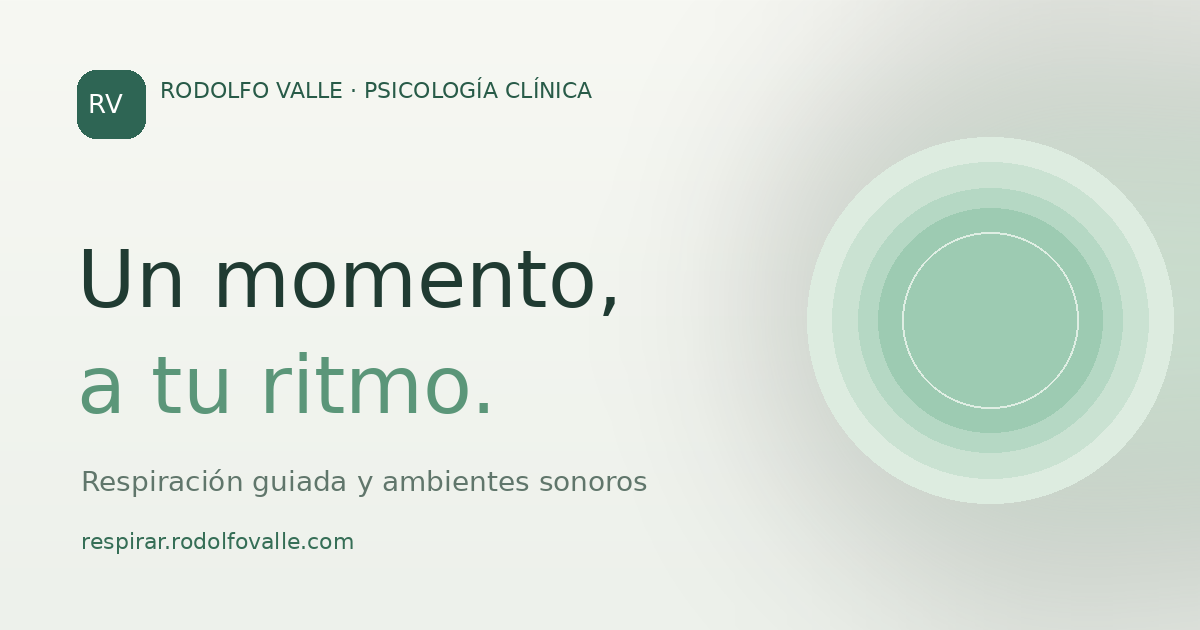
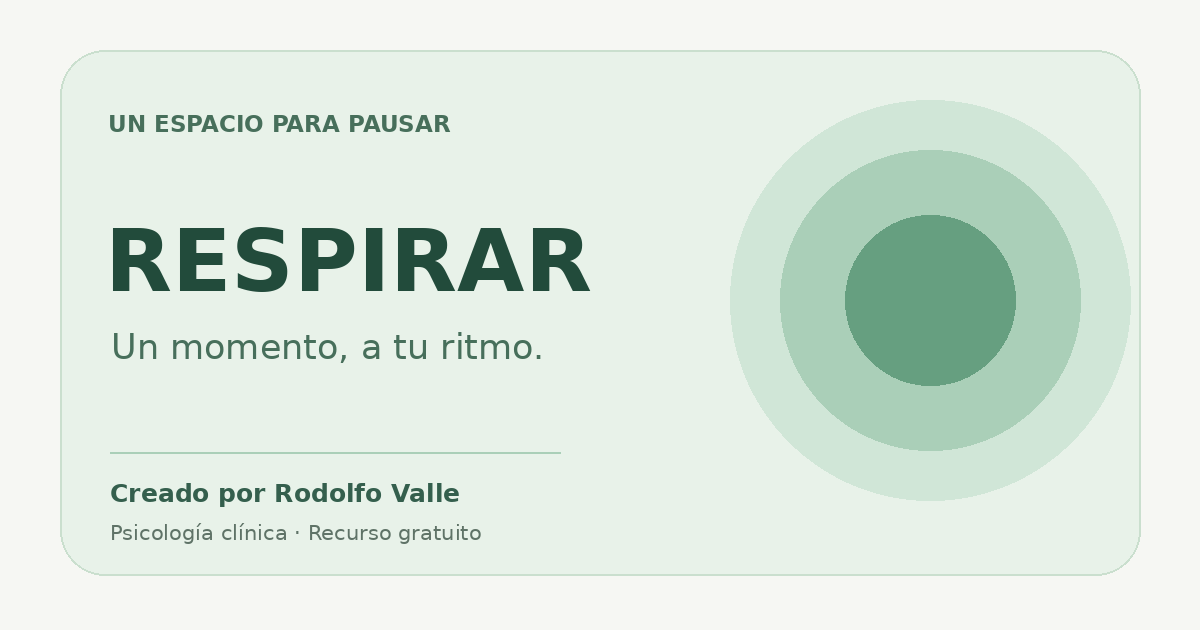
Release Respirar v3.2: branded experience, accessible controls, privacy, installable offline PWA

diff --git a/index.html b/index.html
@@ -4,6 +4,9 @@
   <meta charset="utf-8">
   <meta name="viewport" content="width=device-width, initial-scale=1, viewport-fit=cover">
   <meta name="theme-color" content="#f6f7f3">
+  <meta name="apple-mobile-web-app-capable" content="yes">
+  <meta name="apple-mobile-web-app-status-bar-style" content="default">
+  <meta name="apple-mobile-web-app-title" content="Respirar">
   <meta name="description" content="Respiración guiada y ambientes sonoros para una pausa a tu ritmo. Mar, brisa, lluvia, bosque y cafetería. Gratis, sin registro y sin enviar tus respuestas. Un recurso de Rodolfo Valle.">
   <meta name="author" content="Rodolfo Valle">
   <meta name="robots" content="index,follow,max-image-preview:large">
@@ -13,12 +16,17 @@
   <meta property="og:title" content="Respirar · Una pausa a tu ritmo">
   <meta property="og:description" content="Respiración guiada o solo ambientes relajantes. Sin cuentas, sin anuncios y sin registro de respuestas.">
   <meta property="og:image" content="https://respirar.rodolfovalle.com/assets/social-card.png">
+  <meta property="og:image:width" content="1200">
+  <meta property="og:image:height" content="630">
+  <meta property="og:image:alt" content="Respirar · Un momento, a tu ritmo · Creado por Rodolfo Valle">
   <link rel="canonical" href="https://respirar.rodolfovalle.com/">
   <link rel="icon" href="assets/favicon.svg" type="image/svg+xml">
+  <link rel="apple-touch-icon" href="assets/icon-192.png">
+  <link rel="manifest" href="manifest.webmanifest">
   <link rel="stylesheet" href="styles.css">
   <title>Respirar · Una pausa a tu ritmo | Rodolfo Valle</title>
   <script type="application/ld+json">
-  {"@context":"https://schema.org","@type":"WebApplication","name":"Respirar","description":"Recurso psicoeducativo de respiración guiada y ambientes sonoros, sin cuentas ni registro de respuestas.","url":"https://respirar.rodolfovalle.com/","inLanguage":"es-CL","applicationCategory":"HealthApplication","operatingSystem":"Web","isAccessibleForFree":true,"author":{"@type":"Person","name":"Rodolfo Valle","url":"https://rodolfovalle.com/"}}
+  {"@context":"https://schema.org","@type":"WebApplication","@id":"https://respirar.rodolfovalle.com/#app","name":"Respirar","description":"Recurso psicoeducativo de respiración guiada y ambientes sonoros, sin cuentas ni registro de respuestas.","url":"https://respirar.rodolfovalle.com/","inLanguage":"es-CL","applicationCategory":"HealthApplication","operatingSystem":"Web","isAccessibleForFree":true,"author":{"@type":"Person","@id":"https://rodolfovalle.com/#sobre-mi","name":"Rodolfo Valle","url":"https://rodolfovalle.com/"},"publisher":{"@type":"Person","name":"Rodolfo Valle","url":"https://rodolfovalle.com/"}}
   </script>
   <script src="app.js" defer></script>
 </head>
@@ -35,8 +43,10 @@
     <main>
       <div class="intro" id="intro">
         <div class="overline">UN ESPACIO PARA PAUSAR</div>
-        <h1>Un momento, <em>a tu ritmo.</em></h1>
-        <p>Respira de manera cómoda o simplemente escucha un ambiente. No hay objetivos que cumplir ni resultados que registrar.</p>
+        <div class="product-wordmark"><span class="product-mark" aria-hidden="true"><span></span></span><h1>RESPIRAR</h1></div>
+        <p class="product-motto">Un momento, <em>a tu ritmo.</em></p>
+        <p class="product-description">Respira de manera cómoda o simplemente escucha un ambiente. No hay objetivos que cumplir ni resultados que registrar.</p>
+        <p class="product-credit">Creado por <a href="https://rodolfovalle.com/#sobre-mi" rel="author">Rodolfo Valle</a> · Psicología clínica</p>
       </div>
 
       <div class="experience" id="experience">
@@ -68,7 +78,7 @@
           </div>
 
           <div class="stage-info">
-            <p class="guidance" id="guidance">Busca una posición cómoda. Puedes mantener los ojos abiertos y respirar normalmente.</p>
+            <p class="guidance" id="guidance">Puedes seguir el ritmo o respirar naturalmente. No necesitas hacerlo perfecto.</p>
             <div class="time" id="time" aria-label="Tiempo restante">05:00</div>
             <div class="time-caption" id="timeCaption">TIEMPO RESTANTE</div>
             <div class="action-row">
@@ -123,21 +133,28 @@
               <button class="sound-option" type="button" data-sound="cafeteria" aria-pressed="false"><span class="sound-emoji" aria-hidden="true">☕</span><span>Cafetería</span></button>
             </div>
             <div class="volume-line"><label for="volume">Volumen</label><input type="range" id="volume" min="0" max="100" step="5" value="30" disabled><output for="volume" id="volumeValue">30%</output></div>
-            <p class="helper audio-hint" id="audioHint" role="status" aria-live="polite">El sonido se reproduce solo cuando comienza la sesión.</p>
+            <p class="helper audio-hint" id="audioHint">El sonido se reproduce solo cuando comienza la sesión.</p>
+            <p class="helper sound-provenance">Ambientes sintetizados para este recurso; no son grabaciones de lugares reales.</p>
           </fieldset>
+          <details class="advanced-options"><summary>Más ajustes <span aria-hidden="true">⌄</span></summary>
           <div class="setting-block small-controls">
             <div class="switch-line" id="metronomeLine"><span>Metrónomo suave <small class="switch-help">1 pulso por segundo de inhalación o exhalación</small></span><button type="button" class="switch" id="metronomeToggle" aria-pressed="true" aria-label="Activar o desactivar metrónomo de un pulso por segundo">Sí</button></div>
-            <div class="switch-line"><span>Señales de cambio de fase</span><button type="button" class="switch" id="bellToggle" aria-pressed="false">No</button></div>
-            <div class="switch-line"><span>Animación de la esfera</span><button type="button" class="switch" id="motionToggle" aria-pressed="true">Sí</button></div>
+            <div class="switch-line"><span>Señales de cambio de fase</span><button type="button" class="switch" id="bellToggle" aria-label="Señales de cambio de fase" aria-pressed="false">No</button></div>
+            <div class="switch-line"><span>Animación de la esfera</span><button type="button" class="switch" id="motionToggle" aria-label="Animación de la esfera" aria-pressed="true">Sí</button></div>
           </div>
-          <div class="privacy-note"><svg viewBox="0 0 24 24" width="18" height="18" aria-hidden="true" fill="none" stroke="currentColor" stroke-width="1.6"><rect x="5" y="10" width="14" height="11" rx="2"/><path d="M8 10V7a4 4 0 0 1 8 0v3"/></svg><p>Sin cuentas, anuncios ni registro de datos de uso. Los sonidos se cargan desde este mismo sitio.</p></div>
+          </details>
+          <div class="privacy-note"><svg viewBox="0 0 24 24" width="18" height="18" aria-hidden="true" fill="none" stroke="currentColor" stroke-width="1.6"><rect x="5" y="10" width="14" height="11" rx="2"/><path d="M8 10V7a4 4 0 0 1 8 0v3"/></svg><p>Sin cuentas, anuncios ni registro de sesiones. Tu navegador guarda únicamente recursos técnicos para el uso sin conexión. <a href="privacidad.html">Privacidad de Respirar</a>.</p></div>
         </aside>
       </div>
       <div class="below">
         <p><strong>Una indicación importante.</strong> Respira sin esfuerzo y a tu ritmo; detén el ejercicio si aparece mareo, malestar o aumenta la angustia. Puedes elegir «Solo escuchar» sin instrucciones respiratorias. Este recurso psicoeducativo no sustituye la atención profesional ni la asistencia urgente.</p>
       </div>
     </main>
-    <footer class="footer"><span>© 2026 Rodolfo Valle · Respirar v3.1</span><span>Diseñado para acompañar, no para evaluar.</span><a href="https://rodolfovalle.com/" rel="noopener noreferrer">rodolfovalle.com ↗</a></footer>
+    <footer class="footer">
+      <div class="footer-brand"><strong>RESPIRAR</strong><span>Un recurso creado por <a href="https://rodolfovalle.com/#sobre-mi" rel="author">Rodolfo Valle</a> · © 2026 · v3.2</span></div>
+      <nav class="footer-links" aria-label="Enlaces del recurso"><a href="https://rodolfovalle.com/#atlas">Atlas de emociones</a><a href="https://rodolfovalle.com/">Rodolfo Valle</a><a href="privacidad.html">Privacidad</a></nav>
+      <details class="install-help"><summary>Instalar y usar sin conexión</summary><p>En iPhone: abre esta página en Safari, toca Compartir y selecciona «Añadir a pantalla de inicio». En Android o computador: utiliza «Instalar aplicación» o «Añadir a pantalla de inicio» desde el menú del navegador. Después de cargar todos los recursos por primera vez, podrás utilizar Respirar sin conexión. Si borras los datos del sitio, deberás volver a cargarlo.</p></details>
+    </footer>
   </div>
 </body>
 </html>

diff --git a/app.js b/app.js
@@ -1,4 +1,4 @@
-/* Respirar v3.1 — Rodolfo Valle — no trackers, no accounts, no external libraries. */
+/* Respirar v3.2 — Rodolfo Valle — no trackers, no accounts, no external libraries. */
 (() => {
   'use strict';
   const root = document.getElementById('app');
@@ -34,6 +34,13 @@
   let ctx=null,active=null,audioToken=0,nextTick=0;
   const tickVoices=new Set();
   const loaded=new Map();
+  let audioRest=0;
+  function suspendAudio(){
+    if(!ctx||ctx.state!=='running')return;
+    // Suspend only after the audio nodes have stopped; resume is always user-initiated.
+    if(audioRest)clearTimeout(audioRest);
+    audioRest=setTimeout(()=>{audioRest=0;if(state!=='running'&&ctx&&ctx.state==='running')ctx.suspend().catch(()=>{});},620);
+  }
   ui.progress.style.strokeDasharray=String(circumference);
   ui.progress.style.strokeDashoffset=String(circumference);
   const activeSession=()=>state==='running'||state==='paused';
@@ -111,6 +118,7 @@
     }
   }
   function initContext(){
+    if(audioRest){clearTimeout(audioRest);audioRest=0;}
     try{
       if(!ctx){const Ctx=window.AudioContext||window.webkitAudioContext;if(!Ctx)throw new Error('Sin Web Audio');ctx=new Ctx();}
       if(ctx.state==='suspended')ctx.resume().catch(()=>setHint('El navegador bloqueó el sonido. Puedes continuar sin audio.'));
@@ -244,7 +252,7 @@
       ui.guidance.textContent=state==='completed'
         ?'Vuelve cuando quieras. No hay nada que evaluar.'
         :mode==='guided'
-        ?'Busca una posición cómoda. Puedes mantener los ojos abiertos y respirar normalmente.'
+        ?'Puedes seguir el ritmo o respirar naturalmente. No necesitas hacerlo perfecto.'
         :'Elige un ambiente y escucha sin tener que seguir instrucciones.';
       ui.orb.style.setProperty('--orb-scale','.82');return;
     }
@@ -274,7 +282,7 @@
     if(state!=='running')return;
     accumulatedMs=elapsed();state='paused';stopClock();stopAudio(true);stopMetronome();lastPhase='';
     setHint(auto?'La pestaña quedó oculta: el sonido y la sesión se pausaron.':'Sonido pausado.');
-    syncButtons();render();announce(auto?'Sesión pausada al cambiar de pestaña.':'Sesión en pausa.');
+    syncButtons();render();suspendAudio();announce(auto?'Sesión pausada al cambiar de pestaña.':'Sesión en pausa.');
   }
   function finish(natural=false){
     if(state!=='running'&&state!=='paused')return;
@@ -282,7 +290,7 @@
     if(natural&&hasDeadline())accumulatedMs=durationMs();
     state='completed';stopClock();stopAudio(!natural);stopMetronome();lastPhase='';
     setImmersive(false);setHint('Sesión finalizada.');
-    syncButtons();render();announce('Sesión finalizada. Puedes volver a tu respiración habitual.');
+    syncButtons();render();suspendAudio();announce('Sesión finalizada. Puedes volver a tu respiración habitual.');
   }
   function start(){
     if(state==='paused'){state='running';startedAt=performance.now();lastPhase='';initContext();resetMetronome();startAmbience();syncButtons();stopClock();loop();announce('Sesión reanudada.');return;}
@@ -328,6 +336,10 @@
   if(media.addEventListener)media.addEventListener('change',handleReduce);
   else if(media.addListener)media.addListener(handleReduce);
   document.addEventListener('visibilitychange',()=>{if(document.hidden&&state==='running')pause(true);});
-  window.addEventListener('pagehide',()=>{if(state==='running')pause(true);else{stopAudio(true);stopClock();stopMetronome();}});
+  window.addEventListener('pagehide',()=>{if(state==='running')pause(true);else{stopAudio(true);stopClock();stopMetronome();suspendAudio();}});
+  // Instalable y offline: el trabajador de servicio nunca almacena respuestas ni sesiones.
+  if('serviceWorker' in navigator && (location.protocol==='https:' || location.hostname==='localhost' || location.hostname==='127.0.0.1')){
+    window.addEventListener('load',()=>navigator.serviceWorker.register('./sw.js').catch(()=>{}));
+  }
   syncButtons();render();
 })();

diff --git a/styles.css b/styles.css
@@ -51,3 +51,48 @@ html{min-width:320px;scroll-behavior:smooth}body{margin:0;background:var(--bg);c
   .stage{height:185px}
   .session{padding:11px 12px 13px}
 }
+
+/* Respirar v3.2: firma de producto y navegación complementaria */
+.product-wordmark{display:flex;justify-content:center;align-items:center;gap:13px}
+.product-wordmark h1{margin:0;font-size:clamp(2.4rem,6vw,4.4rem);line-height:1.06;letter-spacing:.055em;font-weight:800;color:var(--ink)}
+.product-mark{display:grid;place-items:center;width:55px;height:55px;flex-shrink:0;border-radius:50%;border:3px solid #739F88;background:#DAEDDE;box-shadow:inset 0 0 0 7px #EFF7EF,inset 0 0 0 13px #B0D1BD}
+.product-mark span{width:16px;height:16px;border-radius:50%;background:#6B9F83}
+.intro .product-motto{font-size:clamp(1.12rem,2.35vw,1.63rem);font-weight:650;letter-spacing:-.025em;color:#476C5A;margin:7px auto 9px}
+.product-motto em{font-style:normal;color:#5C9277}
+.intro .product-description{max-width:550px;margin:0 auto;font-size:.96rem}
+.intro .product-credit{margin:9px auto 0;font-size:.75rem;color:#51695D}
+.product-credit a{font-weight:750;color:#285747;text-underline-offset:3px}
+.sound-provenance{font-size:.72rem;margin-top:4px}
+.advanced-options{border-top:1px solid #E6ECE4;padding-top:14px}
+.advanced-options summary{cursor:pointer;list-style:none;padding:8px 2px;color:#345E4C;font-size:.82rem;font-weight:750}
+.advanced-options summary::-webkit-details-marker{display:none}
+.advanced-options summary span{display:inline-block;margin-left:4px;transition:transform .2s}
+.advanced-options[open] summary span{transform:rotate(180deg)}
+.advanced-options .small-controls{border:0;padding:11px 0 0}
+.privacy-note a{color:#245E4A;font-weight:700;text-underline-offset:2px}
+.footer{align-items:flex-start;gap:14px 20px}
+.footer-brand{display:flex;flex-direction:column;gap:4px}
+.footer-brand strong{font-size:.85rem;letter-spacing:.13em;color:#2C5946}
+.footer-brand span{font-size:.73rem}
+.footer-links{display:flex;flex-wrap:wrap;gap:10px 16px}
+.footer-links a,.footer-brand a{color:#2D604C}
+.install-help{flex-basis:100%;font-size:.74rem;color:#526B5C}
+.install-help summary{cursor:pointer;width:max-content;max-width:100%;font-weight:700;text-decoration:underline;text-underline-offset:3px}
+.install-help p{max-width:680px;line-height:1.6;margin:10px 0 0}
+.privacy-page{width:min(740px,calc(100% - 36px));margin:55px auto 70px;color:#213B33;line-height:1.7}
+.privacy-page h1{font-size:clamp(2rem,5vw,3.3rem);line-height:1.12;margin:14px 0}
+.privacy-page h2{font-size:1.12rem;margin:25px 0 7px}
+.privacy-page p{font-size:.98rem;color:#405E50}
+.privacy-back,.privacy-page a{color:#285747;text-underline-offset:3px}
+.privacy-page footer{margin-top:34px;border-top:1px solid #DEE7DD;padding-top:15px;font-size:.81rem}
+@media(max-width:500px){
+  .product-wordmark{gap:9px}
+  .product-wordmark h1{font-size:clamp(1.88rem,9vw,2.5rem);letter-spacing:.045em}
+  .product-mark{width:35px;height:35px;border-width:2px;box-shadow:inset 0 0 0 4px #EFF7EF,inset 0 0 0 9px #B0D1BD}
+  .product-mark span{width:10px;height:10px}
+  .intro .product-motto{font-size:1.03rem;margin:2px auto 4px}
+  .intro .product-description{font-size:.77rem;line-height:1.4}
+  .intro .product-credit{font-size:.69rem;margin:4px auto 0}
+  .footer{flex-direction:column}
+}
+@media(prefers-reduced-motion:reduce){.advanced-options summary span{transition:none}}

diff --git a/privacidad.html b/privacidad.html
@@ -1,0 +1,1 @@
+<!doctype html><html lang="es-CL"><head><meta charset="utf-8"><meta name="viewport" content="width=device-width,initial-scale=1"><meta name="theme-color" content="#f6f7f3"><meta name="description" content="Privacidad del recurso Respirar creado por Rodolfo Valle."><link rel="icon" href="assets/favicon.svg" type="image/svg+xml"><link rel="stylesheet" href="styles.css"><link rel="manifest" href="manifest.webmanifest"><title>Privacidad · Respirar | Rodolfo Valle</title></head><body><main class="privacy-page"><a class="privacy-back" href="./">← Volver a Respirar</a><div class="overline">RODOLFO VALLE · RECURSO GRATUITO</div><h1>Privacidad de Respirar</h1><p>Respirar es una herramienta psicoeducativa de respiración guiada y ambientes sonoros. No ofrece un servicio de diagnóstico, seguimiento o psicoterapia a través de la aplicación.</p><h2>Información que no solicitamos</h2><p>La aplicación no solicita nombres, correos, cuentas, datos de salud ni respuestas personales. No incorpora formularios, publicidad, analíticas ni píxeles de seguimiento. No registra tus sesiones ni almacena tus selecciones.</p><h2>Recursos locales y funcionamiento sin conexión</h2><p>Tras la primera carga, el navegador puede conservar en su caché los archivos del programa, incluidos sonidos e imágenes, para permitir su uso sin internet. Esta caché contiene recursos estáticos, no historias clínicas ni datos de uso. Puedes eliminarla mediante la configuración de datos del sitio de tu navegador.</p><h2>Solicitudes de alojamiento</h2><p>Al abrir el sitio, GitHub Pages, como proveedor de alojamiento, procesa las solicitudes técnicas necesarias para entregar sus archivos (que pueden incluir dirección IP e información del navegador). Estas solicitudes y sus posibles registros se rigen también por las políticas del proveedor. Respirar no envía respuestas personales a Rodolfo Valle.</p><p>Si sales mediante un enlace a rodolfovalle.com, ese sitio dispone de sus propias tecnologías y condiciones de privacidad. Los enlaces externos no se cargan dentro de Respirar.</p><h2>Uso responsable</h2><p>Si aparecen mareos, malestar o aumenta la angustia, detén el ejercicio. Respirar no sustituye atención profesional ni servicios de urgencia.</p><footer><a href="./">Regresar a Respirar</a> · <a href="https://rodolfovalle.com/#sobre-mi">Creado por Rodolfo Valle</a> · © 2026</footer></main></body></html>

diff --git a/sw.js b/sw.js
@@ -1,0 +1,24 @@
+/* Respirar v3.2 — recursos públicos locales; no guarda sesiones ni datos clínicos */
+const CACHE='respirar-static-v3.2.0';
+const BASE=new URL('./',self.registration.scope);
+const LOCAL=['./','./index.html','./privacidad.html','./styles.css','./app.js','./manifest.webmanifest','./assets/favicon.svg','./assets/icon-192.png','./assets/icon-512.png','./assets/social-card.png','./assets/audio/mar.mp3','./assets/audio/brisa.mp3','./assets/audio/lluvia.mp3','./assets/audio/bosque.mp3','./assets/audio/cafeteria.mp3'];
+self.addEventListener('install',event=>{
+ event.waitUntil(caches.open(CACHE).then(cache=>cache.addAll(LOCAL.map(u=>new URL(u,BASE).href))).then(()=>self.skipWaiting()));
+});
+self.addEventListener('activate',event=>{
+ event.waitUntil(caches.keys().then(keys=>Promise.all(keys.filter(k=>k.startsWith('respirar-static-')&&k!==CACHE).map(k=>caches.delete(k)))).then(()=>self.clients.claim()));
+});
+self.addEventListener('fetch',event=>{
+ if(event.request.method!=='GET')return;
+ const url=new URL(event.request.url);
+ if(url.origin!==self.location.origin || !url.pathname.startsWith(BASE.pathname))return;
+ event.respondWith((async()=>{
+   const cache=await caches.open(CACHE);
+   const cached=await cache.match(event.request,{ignoreSearch:true});
+   if(cached)return cached;
+   try{return await fetch(event.request);}catch(error){
+     if(event.request.mode==='navigate')return await cache.match(new URL('./index.html',BASE).href) || Response.error();
+     return Response.error();
+   }
+ })());
+});

diff --git a/README.md b/README.md
@@ -1,42 +1,48 @@
-# RESPIRAR v3.1 — Rodolfo Valle
+# RESPIRAR v3.2 · Rodolfo Valle
 
-Aplicación psicoeducativa gratuita de respiración guiada y ambientes sonoros. Publicación estática en GitHub Pages con HTML/CSS/JavaScript, sin cuentas, formularios clínicos, analíticas, cookies propias ni dependencias de JavaScript externas.
+Webapp gratuita de respiración guiada y ambientes sonoros. Alojamiento estático en GitHub Pages, sin cuentas, formularios clínicos, trackers, anuncios ni almacenamiento de sesiones. **Creado por Rodolfo Valle.**
 
-Sitio previsto: https://respirar.rodolfovalle.com/  
-Autor: https://rodolfovalle.com/
+## Identidad y funcionalidades
 
-## Funciones de v3.1
+- RESPIRAR es el nombre visible del recurso. «Un momento, a tu ritmo» es su lema. Identidad gráfica nueva, favicon, iconos instalables y tarjeta social de 1200 × 630.
+- Dos modos: **Respirar** (3/4 s predeterminado, 4/4, 4/6, sin retenciones) y **Solo escuchar** (1/3/5/10 min o sin límite).
+- Cinco ambientes sintéticos, no grabaciones reales: mar, brisa, lluvia, bosque y cafetería; además silencio.
+- Metrónomo opcional a un pulso por segundo siguiendo la fase respiratoria, campanillas independientes y ajustes avanzados plegables.
+- Pausa automática al cambiar de pestaña, inicio y reanudación manual, reducción de movimiento, volumen y estado de audio visible.
+- Autoría enlazada a rodolfovalle.com/#sobre-mi, enlace a Atlas de emociones y página de privacidad específica.
 
-- Guía respiratoria con ritmos **3 / 4 s (predeterminado)**, 4 / 4 s y 4 / 6 s; sin retenciones obligatorias.
-- **Metrónomo suave activado por defecto para el modo Respirar:** un pulso cada segundo del mismo ciclo que utiliza la esfera. Los tonos distinguen inhalación y exhalación, con un pequeño acento al cambiar de fase. Se puede silenciar en cualquier momento desde *Mostrar ajustes*.
-- Campanillas de transición independientes, desactivadas por defecto.
-- Modo *Solo escuchar* sin instrucciones respiratorias y sin metrónomo, con temporizador o sin límite.
-- Sonidos locales sintéticos de mar, brisa, lluvia, bosque y cafetería, además de silencio. MP3 recodificados desde los WAV maestros a **112 kb/s mono** para reducir artefactos de compresión; no son grabaciones reales.
-- Contador, pausa, continuar, terminar, transición del sonido ambiental, volumen y animación opcional.
-- Estado de audio visible también durante la sesión inmersiva: preparación, reproducción, pausa y fallos de reproducción.
-- Ajustes de contraste de texto y reducción de la altura en móvil para que el botón de inicio aparezca en una pantalla emulada de 390 × 844.
-- Respetar `prefers-reduced-motion`; detener sonido y metrónomo al ocultar pestaña. No inicia reproducción hasta que la persona pulsa Comenzar.
+## Instalación (PWA) y uso offline
 
-## Privacidad
+`manifest.webmanifest` e iconos 192/512 permiten la instalación cuando el navegador lo admite. `sw.js` precarga una copia de los archivos de la aplicación **y los cinco MP3** para que, una vez completada la primera instalación del trabajador de servicio, se pueda volver a abrir sin internet. La descarga inicial es de aproximadamente 2 MB de sonido más la aplicación. La app no recopila datos de uso, pero la caché técnica constituye almacenamiento del navegador. Puedes eliminarla borrando los datos del sitio.
 
-La app no transmite respuestas personales ni guarda sesiones. Las peticiones normales al alojamiento GitHub Pages sí pueden generar registros técnicos del servidor. Los audios se solicitan a este mismo dominio cuando se inicia la sesión con ambiente seleccionado.
+- iPhone: Safari -> Compartir -> Añadir a pantalla de inicio.
+- Android y escritorio: menú del navegador -> Instalar aplicación, cuando esté disponible.
+- Se requiere HTTPS válido en producción. `localhost` funciona para pruebas.
 
-## Seguridad y límites
+El trabajador de servicio emplea un nombre de caché por versión. Al instalar una nueva versión elimina las cachés antiguas de RESPIRAR. Los enlaces a otros sitios **no** se guardan en caché. Si no termina la precarga inicial, no hay garantía de acceso offline completo; la app sigue sirviéndose normalmente cuando hay conexión.
 
-Recurso de acompañamiento y educación; no equivale a tratamiento psicológico, atención de urgencia ni garantía de regulación emocional. No fuerces ni retengas la respiración; usa *Solo escuchar* si centrarte en respirar te incomoda. Detén el ejercicio si aparece mareo, angustia o malestar.
+## Privacidad y límites
 
-## Publicación en GitHub Pages
+No se solicitan, transmiten ni guardan respuestas clínicas. La aplicación no incluye analíticas ni píxeles. GitHub Pages puede procesar información técnica de la navegación al entregar archivos. La página `privacidad.html` explica estos límites. La web principal rodolfovalle.com utiliza su propia configuración y su privacidad es distinta.
 
-Repositorio `rbvk/Respirar`, rama `main` y carpeta raíz. `CNAME` apunta a `respirar.rodolfovalle.com`. El DNS del host `respirar` debe apuntar mediante CNAME a `rbvk.github.io`. La presencia de `CNAME` no establece DNS ni habilita Pages: verifícalo en **Settings > Pages**. Para pruebas locales, ejecuta `python3 -m http.server 8000` en esta carpeta.
+Respirar es un recurso psicoeducativo, no tratamiento individualizado ni servicio de urgencias. No fuerces ni retengas el aire; si aparece mareo, incomodidad o aumenta la angustia, termina o usa Solo escuchar.
 
-## Verificación
+## Publicación
 
-- Código JS validado con `node --check`.
-- Pruebas automatizadas Chromium con HTML y CSS reales y MP3 reales para inicio, duración, ritmos, pulso por segundo, sincronización de 3/4, pausa, reanudación, interrupción y modo *Solo escuchar*.
-- Reproducción y decodificación MP3 de mar, botones de volumen y estado audio en modo inmersivo.
-- Pantallas emuladas a 1440, 390, 375 y 320 px sin desplazamiento horizontal; CTA visible sin desplazamiento a 390 × 844.
-- Movimiento reducido validado en Chromium.
-- Se corrigieron textos de contraste inferior a WCAG AA. No se declara que exista certificación completa WCAG ni pruebas con tecnología de asistencia física.
-- **No se ha podido ejecutar Safari en un iPhone físico**: falta la prueba en dispositivo antes de asegurar compatibilidad móvil real.
+Repositorio: `rbvk/Respirar`, rama `main`, GitHub Pages desde `/(root)`. `CNAME` contiene `respirar.rodolfovalle.com`. El proveedor DNS debe tener el registro **CNAME** `respirar` -> `rbvk.github.io`. GitHub Pages y **Enforce HTTPS** se comprueban en Settings -> Pages, una vez que los DNS se han propagado. El archivo CNAME por sí mismo NO configura DNS ni HTTPS. No se realizaron cambios en el proveedor DNS desde este desarrollo.
 
-© 2026 Rodolfo Valle. Los audios fueron sintetizados específicamente para Respirar; no son muestras de terceros.
+## Vínculo con Carrd
+
+En `rodolfovalle.com`, conservar o publicar la sección `#respirar` y el menú Recursos con el enlace `https://rodolfovalle.com/#respirar`. La landing presenta el recurso y enlaza a `https://respirar.rodolfovalle.com/`. Carrd necesita publicación independiente; los commits de GitHub no modifican Carrd.
+
+## Validaciones ejecutadas
+
+- Sintaxis de `app.js` y `sw.js` mediante `node --check`, archivo manifiesto JSON y rutas locales.
+- HTML y estilos renderizados sin desbordamiento en Chromium (DOM local) a 1440, 390, 375 y 320 px; el CTA queda dentro del primer viewport de 390 × 844 y 375 × 667.
+- Inicio, pausa, continuación, finalización, modo Solo escuchar, pantalla de ajustes, acceso a privacidad y preferencia de movimiento reducido.
+- Cinco MP3 inspeccionados mediante decodificación: 26.2 segundos cada uno, RMS y saltos en las uniones dentro de tolerancias de la señal. No se reemplazaron sin evidencia comparativa.
+- **Limitaciones:** el navegador del entorno bloquea la navegación a servidores locales y no permite completar una prueba real del service worker con red desconectada. La prueba de flujo usó HTML/CSS/JS insertados en Chromium. También siguen pendientes una prueba real en Safari iPhone, VoiceOver, pruebas de escucha y verificación de HTTPS/despliegue con la cuenta de DNS.
+
+Documentación: https://developer.mozilla.org/en-US/docs/Web/Progressive_web_apps/ y https://docs.github.com/en/pages/configuring-a-custom-domain-for-your-github-pages-site
+
+© 2026 Rodolfo Valle.
